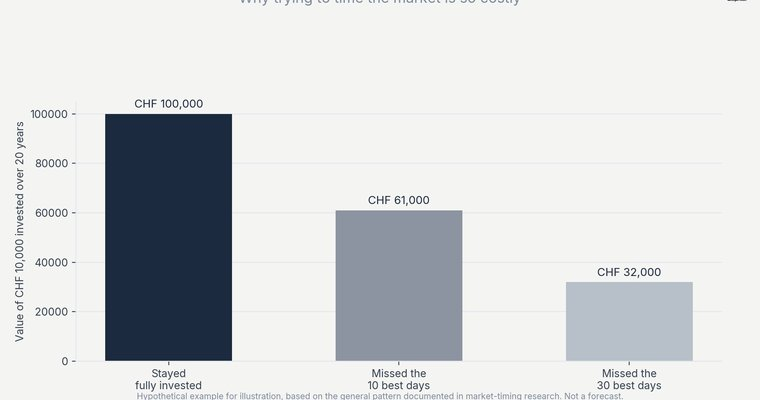
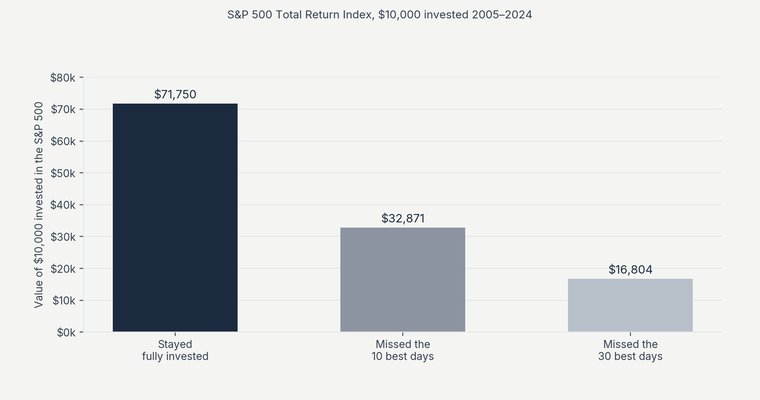
Market-timing chart: use real cited S&P 500 data, name index, fix spacing

diff --git a/guide-market-timing.html b/guide-market-timing.html
@@ -89,12 +89,12 @@
       <p>Market timing isn't wrong in theory, if you could reliably predict downturns and recoveries, you'd want to act on that. The issue is that reliably doing this in practice, over and over, is extraordinarily difficult, and being wrong is costly in a very specific, asymmetric way.</p>
 
       <figure style="margin:32px 0;">
-        <img src="assets/chart-missing-best-days.jpg" alt="Bar chart showing how a CHF 10,000 investment held over 20 years is dramatically reduced if the investor misses the 10 or 30 best market days by trying to time entries and exits" style="width:100%; height:auto; border:1px solid #E2E6EA; border-radius:10px; display:block;" />
-        <figcaption style="margin-top:10px; font-size:0.85rem; color:#6B7480;">Being out of the market for even a handful of its best days meaningfully changes the outcome. Hypothetical example.</figcaption>
+        <img src="assets/chart-missing-best-days.jpg" alt="Bar chart showing a $10,000 investment in the S&P 500 from 2005 to 2024, worth $71,750 if fully invested but only $32,871 if the 10 best days were missed and $16,804 if the 30 best days were missed" style="width:100%; height:auto; border:1px solid #E2E6EA; border-radius:10px; display:block;" />
+        <figcaption style="margin-top:10px; font-size:0.85rem; color:#6B7480;">S&P 500 Total Return Index, 2005&ndash;2024. Missing just the 10 best days cut the final value by more than half. Source: J.P. Morgan Asset Management analysis (Morningstar data).</figcaption>
       </figure>
 
       <h2>Why the best days are so easy to miss</h2>
-      <p>The pattern behind this chart is well documented: a large share of a market's best days tend to cluster very close to its worst days, often within the same volatile stretch. This makes intuitive sense, sharp rebounds often happen precisely because sentiment was so negative just before. An investor who sells during the scary part of a downturn, intending to buy back in once things feel safer, frequently ends up missing the sharpest part of the recovery, because it happens before things feel safe again.</p>
+      <p>The figures above come from a widely-cited J.P. Morgan analysis of the S&amp;P 500, the index of 500 large US companies, over the 20 years to the end of 2024. An investor who stayed fully invested turned $10,000 into roughly $71,750. One who missed only the 10 single best days ended with less than half that. The reason is that a large share of a market's best days tend to cluster very close to its worst days, often within the same volatile stretch. This makes intuitive sense: sharp rebounds often happen precisely because sentiment was so negative just before. An investor who sells during the scary part of a downturn, intending to buy back in once things feel safer, frequently ends up missing the sharpest part of the recovery, because it happens before things feel safe again.</p>
 
       <h2>What "staying the course" actually means</h2>
       <p>This isn't an argument for never adjusting a portfolio, rebalancing, changing your allocation as your goals shift, and reducing risk as you approach a specific need for the money are all reasonable, planned actions. The distinction is between a planned adjustment made for a specific reason, and a reactive decision made because markets fell and it felt uncomfortable to stay invested.</p>
